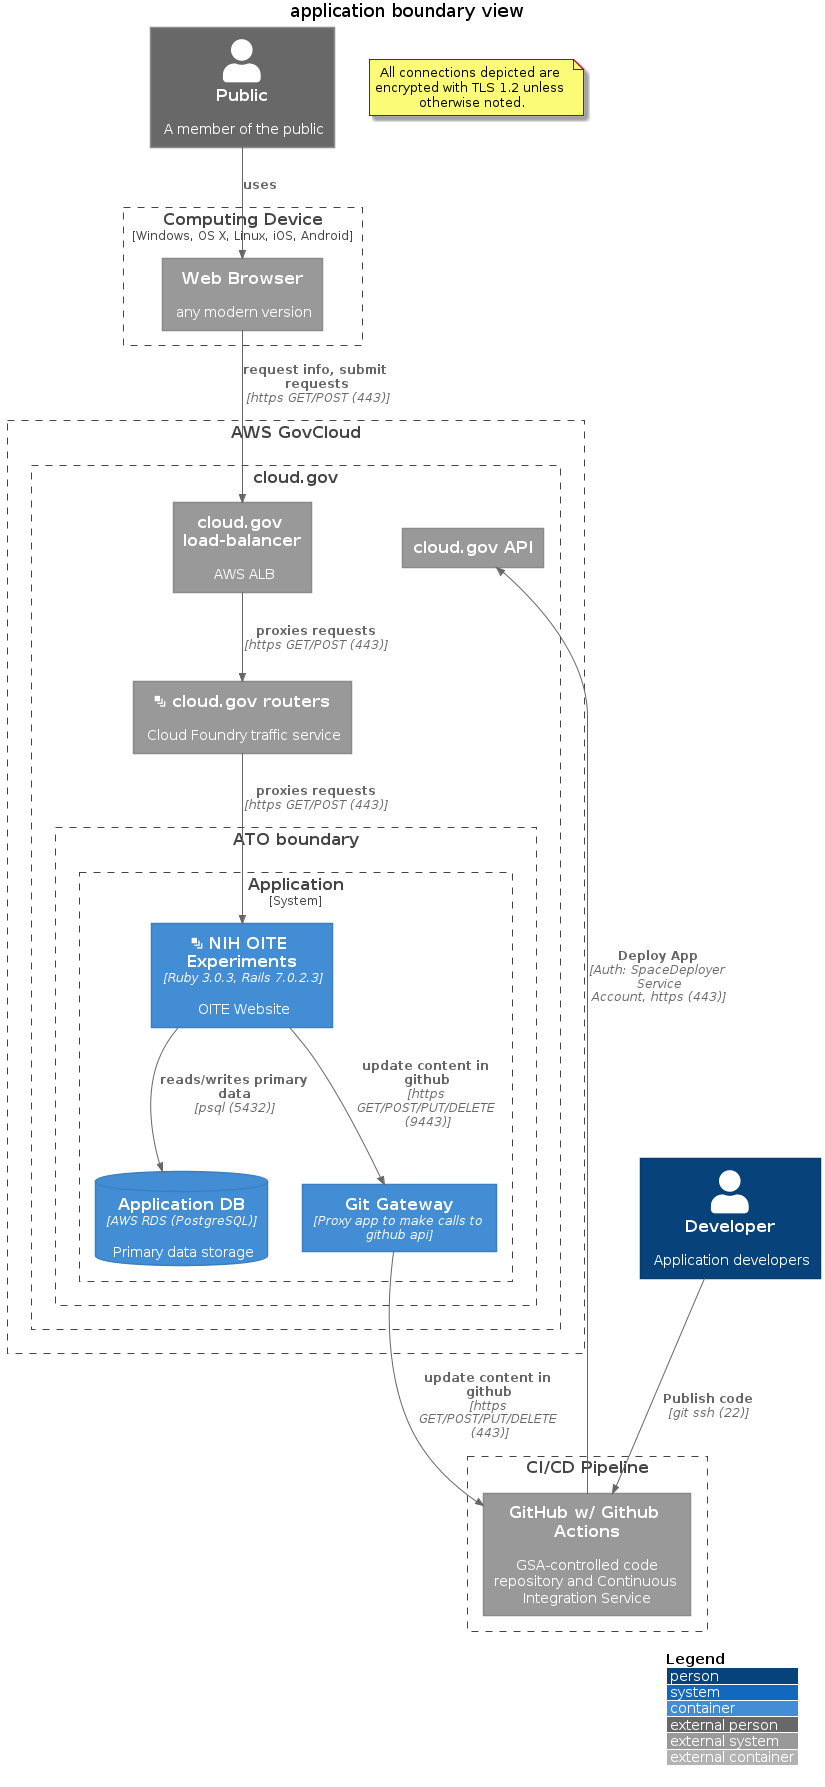
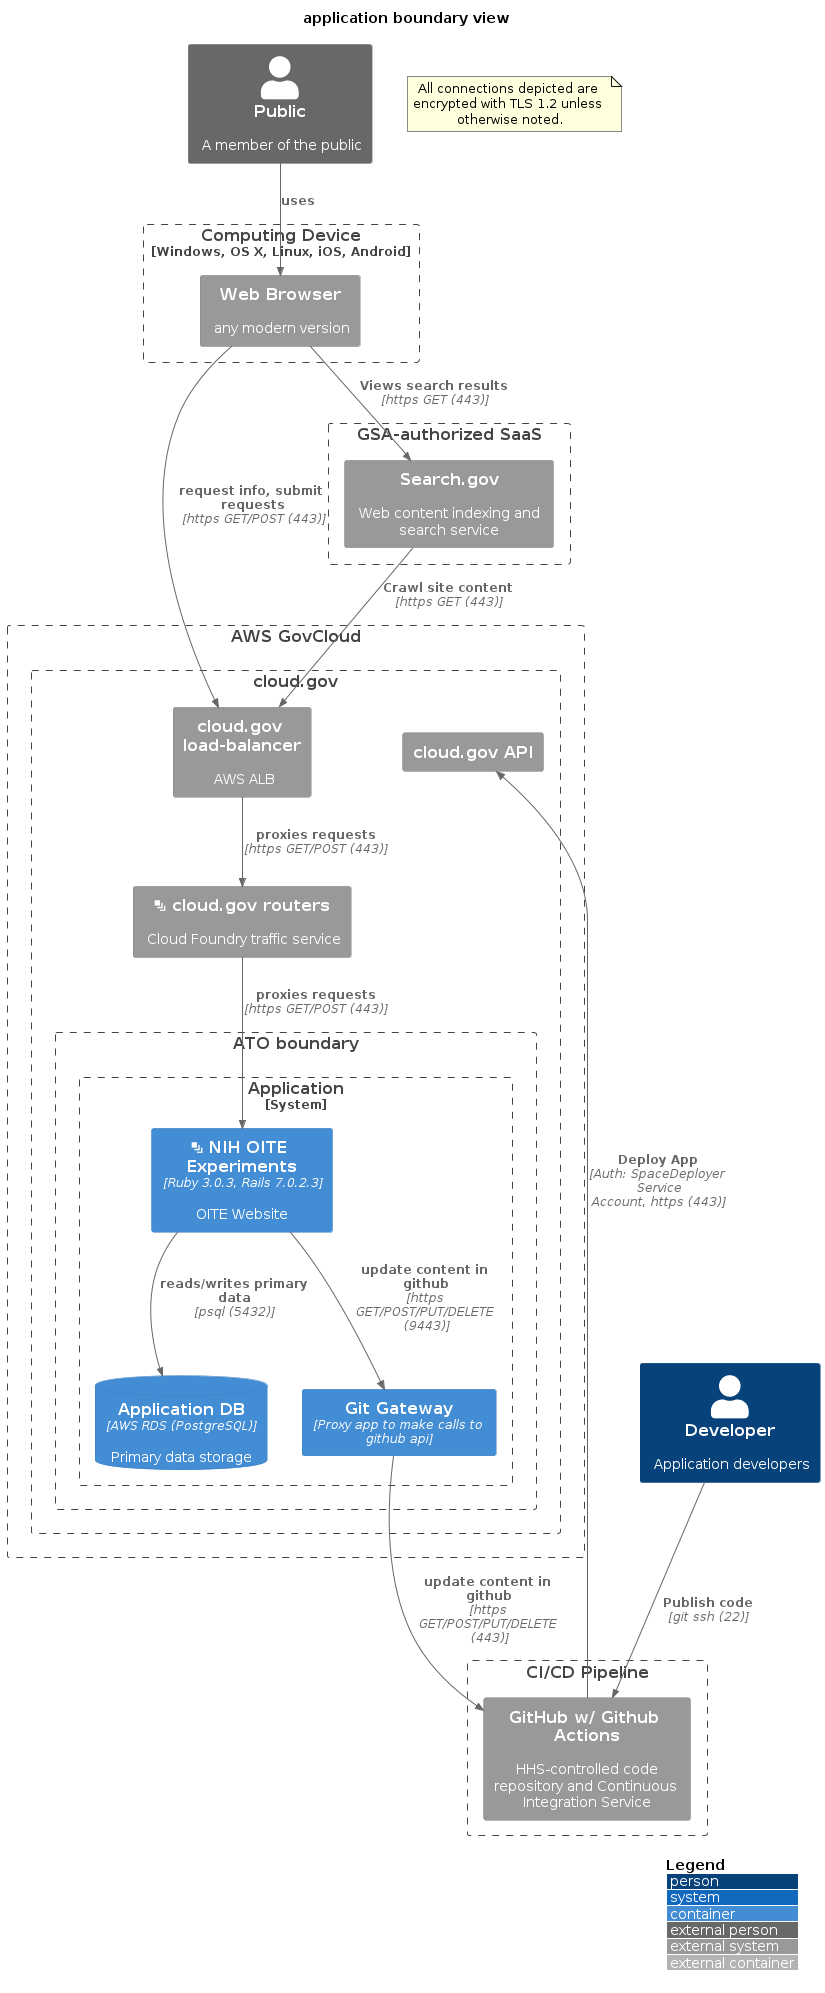
Add search.gov to boundary diagram

diff --git a/doc/compliance/apps/application.boundary.md b/doc/compliance/apps/application.boundary.md
@@ -38,11 +38,14 @@ Boundary(aws, "AWS GovCloud") {
     }
 }
 
-' Boundary(gsa_saas, "GSA-authorized SaaS") {
-' }
+Boundary(gsa_saas, "GSA-authorized SaaS") {
+  System_Ext(search, "Search.gov", "Web content indexing and search service")
+}
+Rel(browser, search, "Views search results", "https GET (443)")
+Rel(search, aws_alb, "Crawl site content", "https GET (443)")
 
 Boundary(cicd, "CI/CD Pipeline") {
-    System_Ext(githuball, "GitHub w/ Github Actions", "GSA-controlled code repository and Continuous Integration Service")
+    System_Ext(githuball, "GitHub w/ Github Actions", "HHS-controlled code repository and Continuous Integration Service")
 }
 
 Rel(browser, aws_alb, "request info, submit requests", "https GET/POST (443)")
